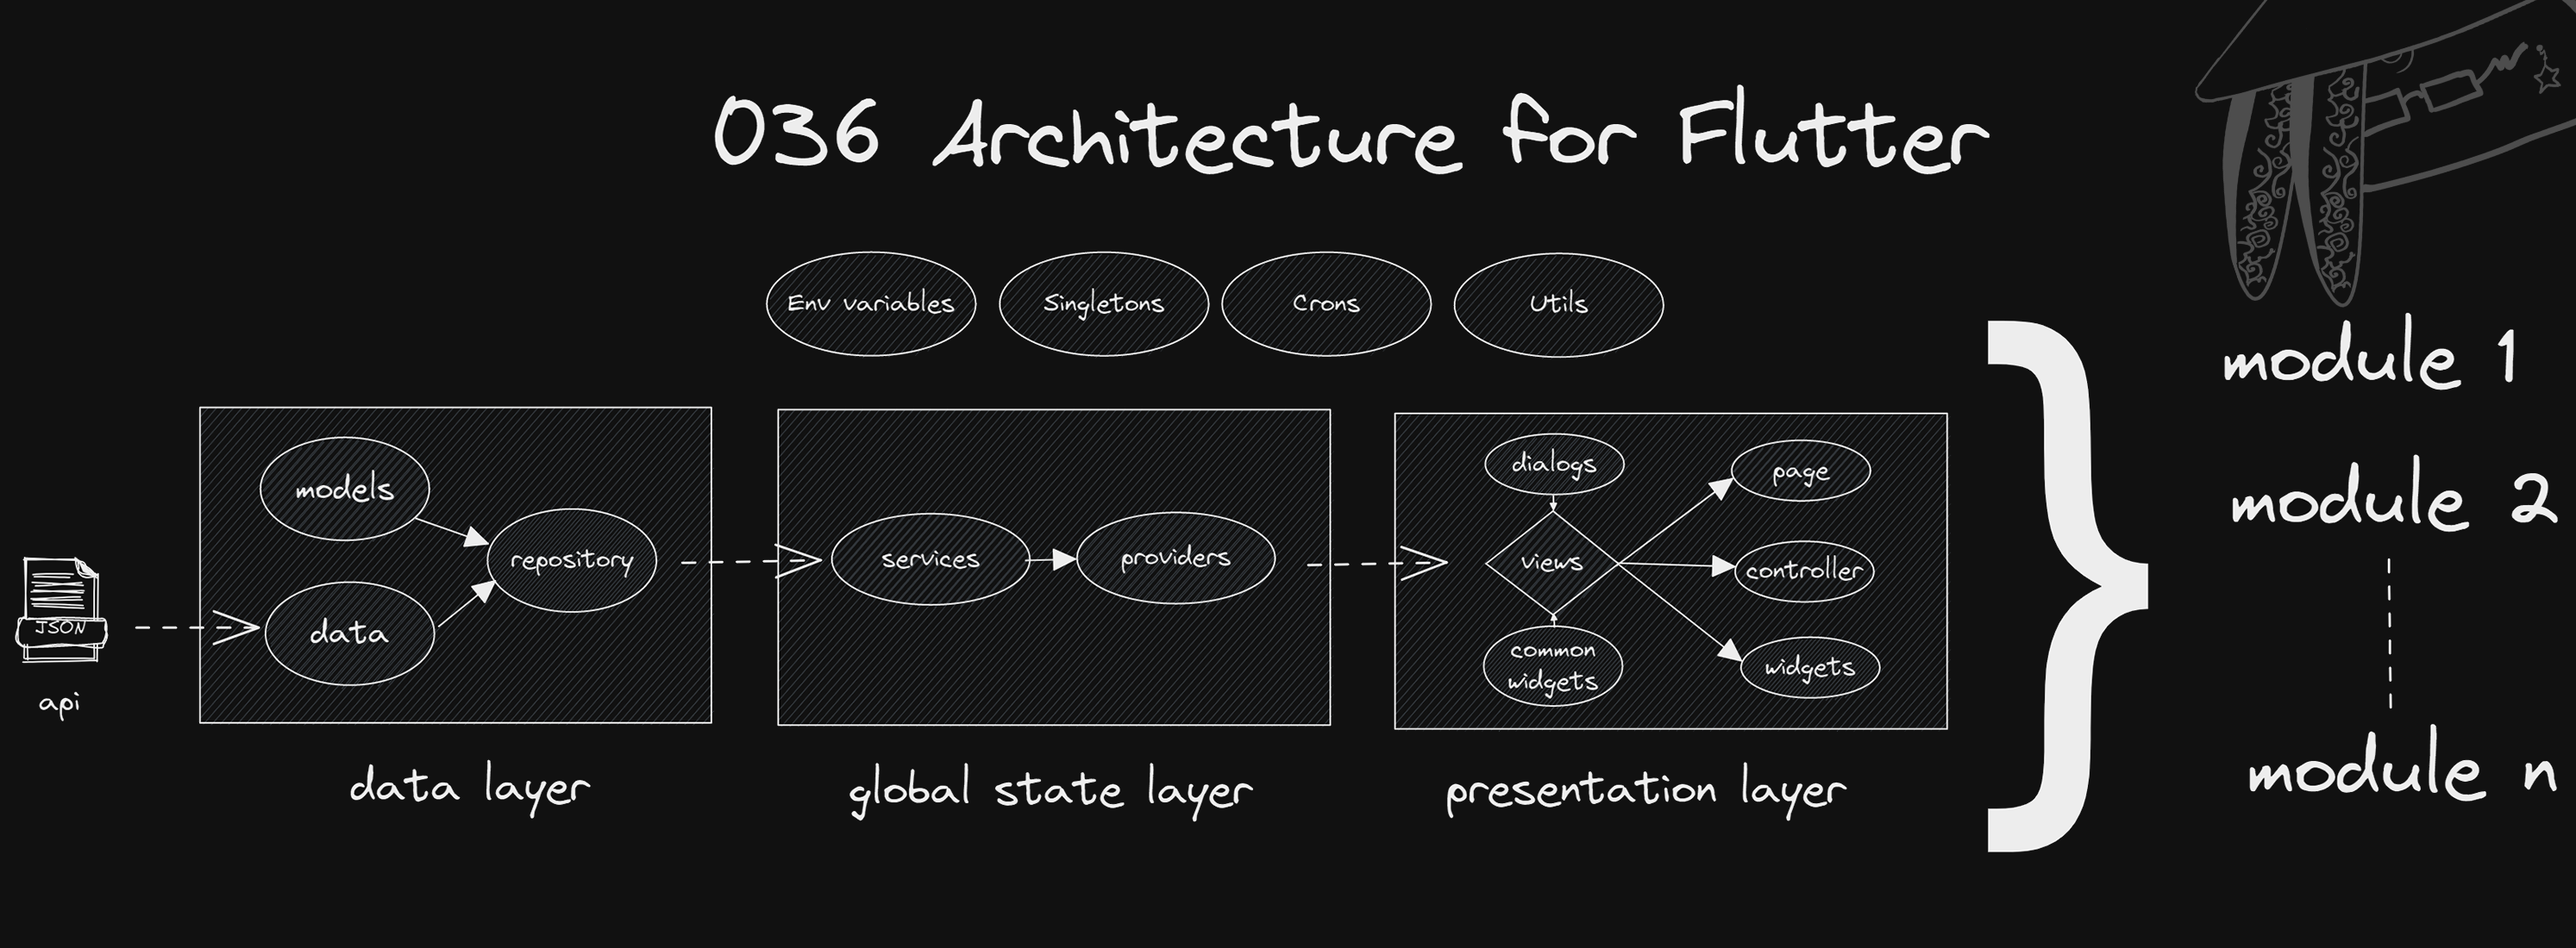
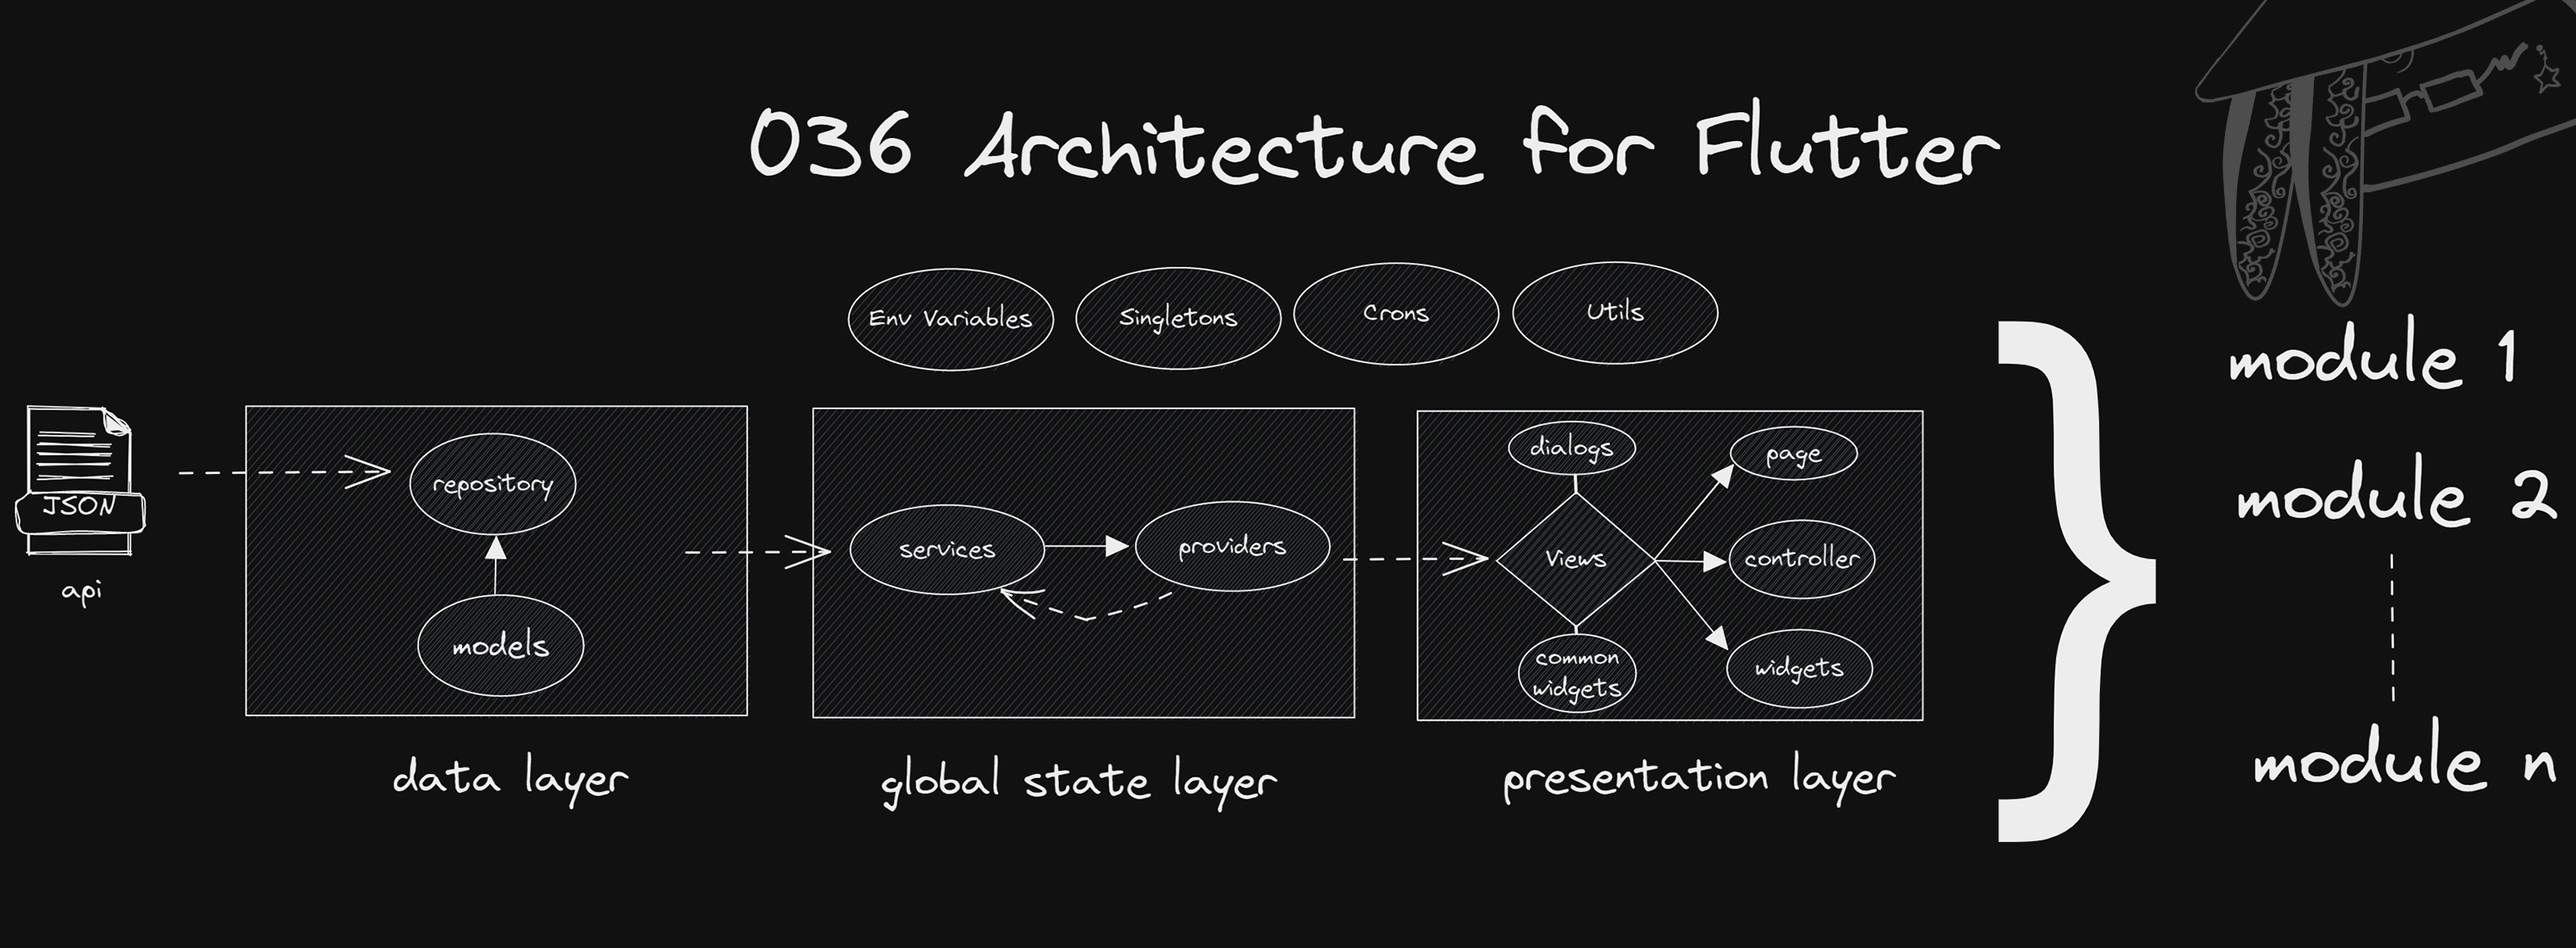
ReWriteArchitecture

diff --git a/lib/config/locator.config.dart b/lib/config/locator.config.dart
@@ -8,16 +8,14 @@
 import 'package:flutterfly/config/app_config.dart' as _i3;
 import 'package:flutterfly/modules/common/repository/binance_repository.dart'
     as _i4;
-import 'package:flutterfly/modules/common/repository/data/binance_data.dart'
-    as _i5;
-import 'package:flutterfly/modules/common/services/binance_service.dart' as _i6;
+import 'package:flutterfly/modules/common/services/binance_service.dart' as _i5;
 import 'package:get_it/get_it.dart' as _i1;
-import 'package:injectable/injectable.dart' as _i2;
+import 'package:injectable/injectable.dart'
+    as _i2; // ignore_for_file: unnecessary_lambdas
 
-/// ignore_for_file: unnecessary_lambdas
-/// ignore_for_file: lines_longer_than_80_chars
+// ignore_for_file: lines_longer_than_80_chars
 extension GetItInjectableX on _i1.GetIt {
-  /// initializes the registration of main-scope dependencies inside of [GetIt]
+  // initializes the registration of main-scope dependencies inside of GetIt
   Future<_i1.GetIt> init({
     String? environment,
     _i2.EnvironmentFilter? environmentFilter,
@@ -31,9 +29,9 @@ extension GetItInjectableX on _i1.GetIt {
       () => _i3.AppConfig.init(),
       preResolve: true,
     );
-    gh.factory<_i4.BinanceRepository>(() => _i5.BinanceData());
-    gh.factory<_i6.BinanceService>(
-        () => _i6.BinanceService(gh<_i4.BinanceRepository>()));
+    gh.factory<_i4.BinanceRepository>(() => _i4.BinanceRepository());
+    gh.factory<_i5.BinanceService>(
+        () => _i5.BinanceService(gh<_i4.BinanceRepository>()));
     return this;
   }
 }

diff --git a/lib/modules/common/repository/binance_repository.dart b/lib/modules/common/repository/binance_repository.dart
@@ -1,10 +1,23 @@
-import 'package:fpdart/fpdart.dart' show TaskEither;
+import 'package:dio/dio.dart' show Dio, DioError;
+import 'package:fpdart/fpdart.dart' show Task, TaskEither;
+import 'package:injectable/injectable.dart' show injectable;
 
 import 'package:flutterfly/modules/common/models/binance.dart';
 import 'package:flutterfly/modules/common/models/bitcoin.dart';
 import 'package:flutterfly/utils/errors.dart';
 
-abstract class BinanceRepository {
-  TaskEither<HttpNotSuccess, List<Binance>> getCurrencies();
-  TaskEither<HttpNotSuccess, Bitcoin> getBitcoin();
+@injectable
+class BinanceRepository {
+
+  TaskEither<HttpNotSuccess, List<Binance>> getCurrencies() => TaskEither.tryCatch(
+    Task(() => Dio().get('http://api2.binance.com/api/v3/ticker/24hr'))
+      .map((res) => Binance.fromJsonToList(res.data as List<dynamic>)).run,
+    (e, _) => HttpNotSuccess.dioThrow(e as DioError)
+  );
+
+  TaskEither<HttpNotSuccess, Bitcoin> getBitcoin() => TaskEither.tryCatch(
+    Task(() => Dio().get('https://api2.binance.com/api/v3/ticker/price?symbol=BTCUSDT'))
+      .map((res) => Bitcoin.fromJson(res.data as Map<String, dynamic>)).run,
+    (e, _) => HttpNotSuccess.dioThrow(e as DioError)
+  );
 }

diff --git a/lib/modules/fluent/widgets/header.dart b/lib/modules/fluent/widgets/header.dart
@@ -1,7 +1,6 @@
 import 'package:fluent_ui/fluent_ui.dart';
 
 import 'package:nester/nester.dart' show Nester;
-import 'package:niku/niku.dart' show Niku;
 import 'package:niku/namespace.dart' as n;
 import 'package:riverpod_context/riverpod_context.dart' show RiverpodContext;
 

diff --git a/README.md b/README.md
@@ -12,7 +12,7 @@ This template is used to be clean. Made with ❤ by
 
 [Github Pages](https://victor7w7r.github.io/flutterfly/)
 
-### Install Packages (SDK >= 2.18.6)
+### Install Packages
 
 ``` bash
 $ flutter pub get
